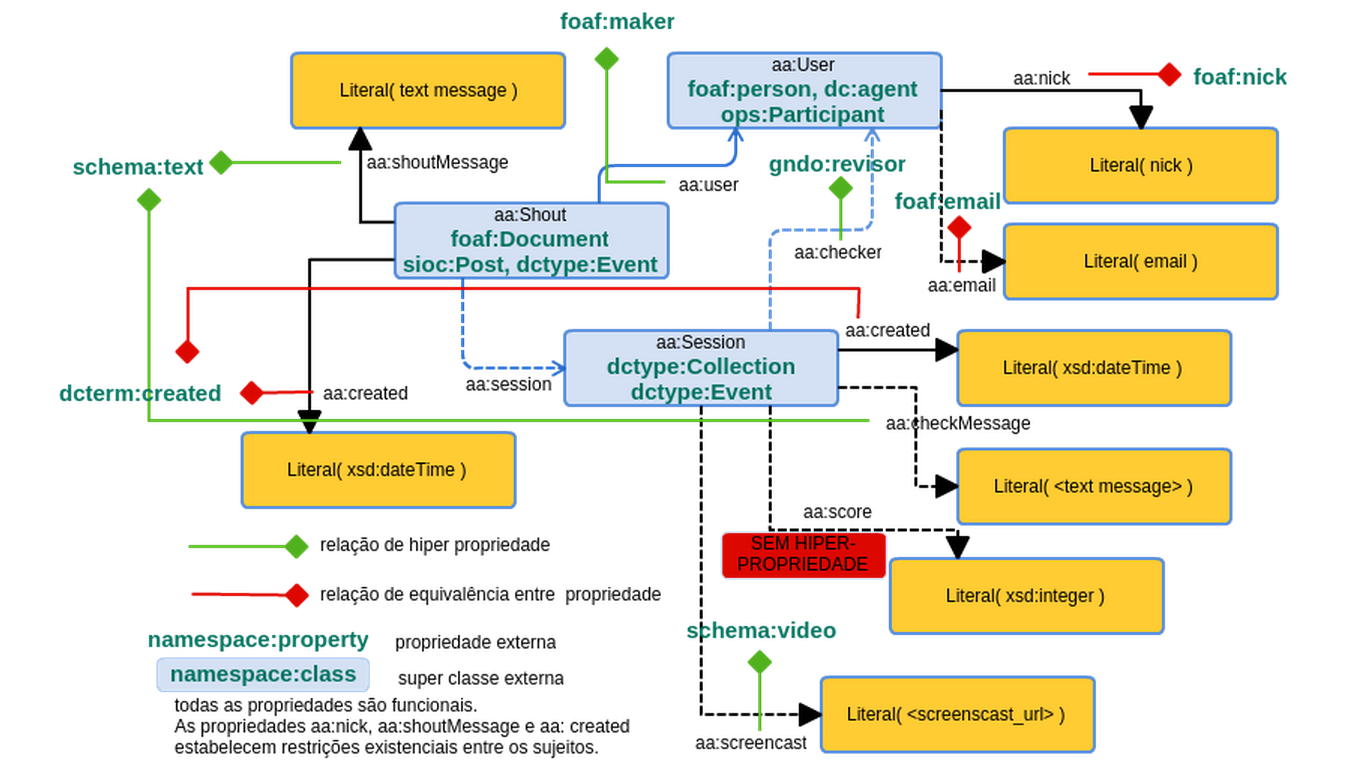
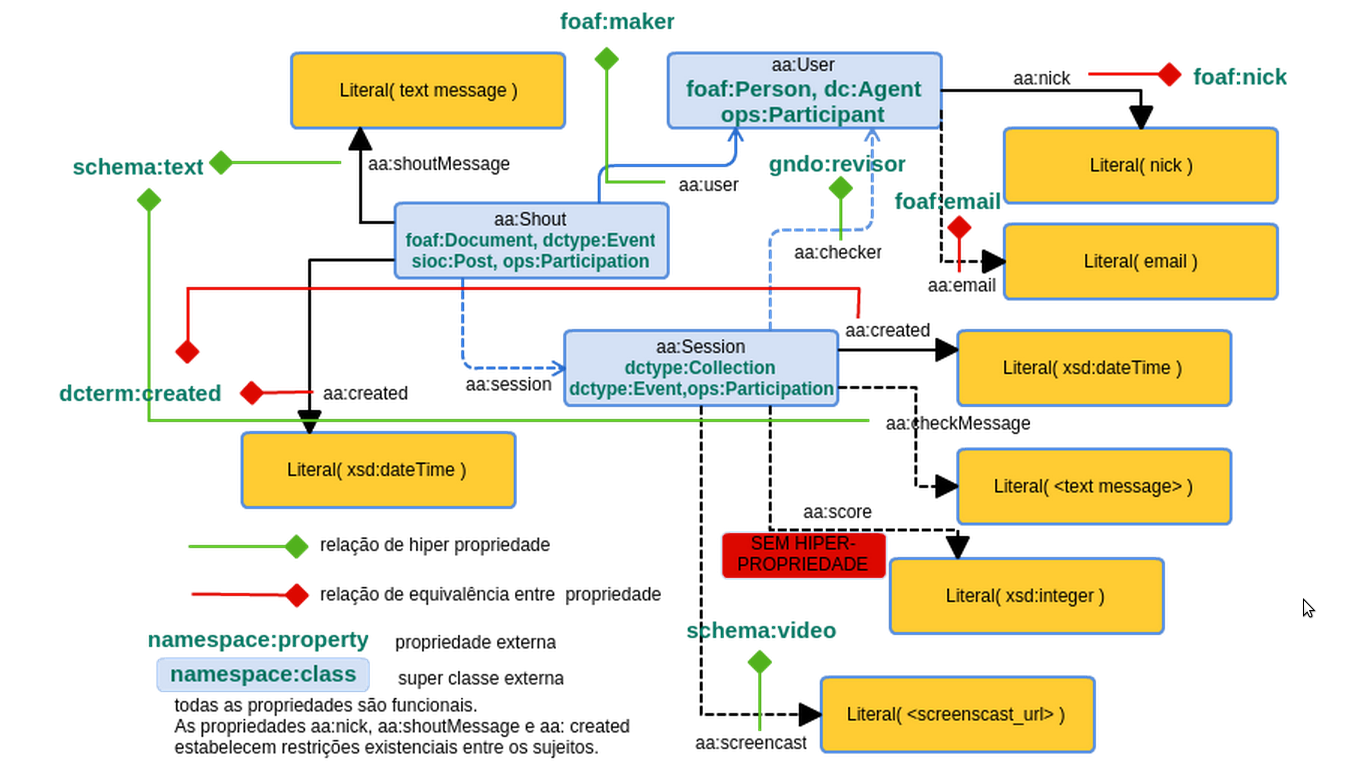
atualizado diagrama e ontologiaa

diff --git a/rdf/fazOntologiaa.py b/rdf/fazOntologiaa.py
@@ -47,9 +47,11 @@ g.add((aa.User,    rdfs.subClassOf, dc.Agent))
 g.add((aa.User,    rdfs.subClassOf, ops.Participant))
 g.add((aa.Shout,   rdfs.subClassOf, foaf.Document))
 g.add((aa.Shout,   rdfs.subClassOf, sioc.Post))
+g.add((aa.Shout,   rdfs.subClassOf, ops.Participation))
 g.add((aa.Shout, rdfs.subClassOf, dcty.Event))
 g.add((aa.Session, rdfs.subClassOf, dcty.Collection))
 g.add((aa.Session, rdfs.subClassOf, dcty.Event))
+g.add((aa.Session,   rdfs.subClassOf, ops.Participation))
 
 # 3) declaradas propriedades funcionais
 
